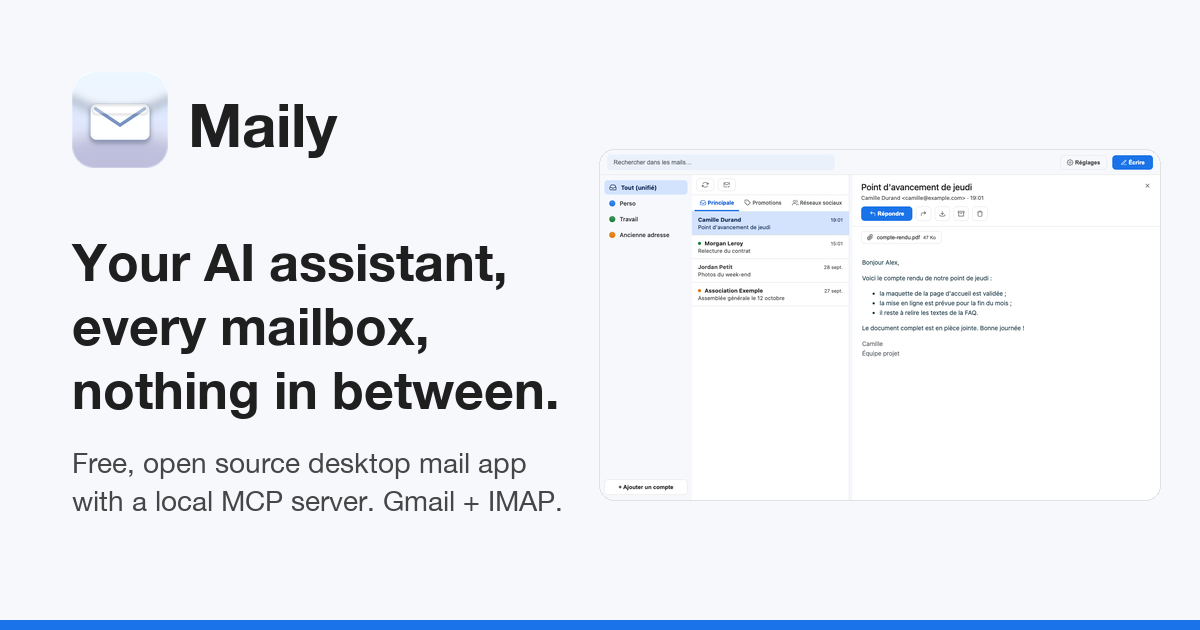
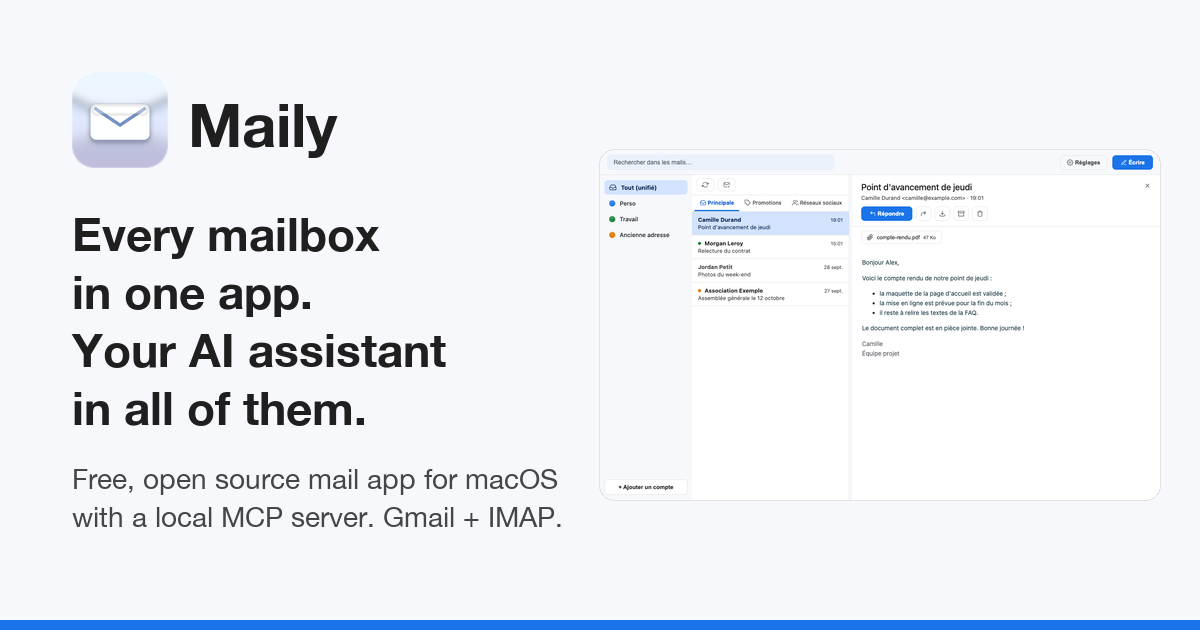
Match the Open Graph image to the new hero promise

Changed region(s): [[0.0617, 0.3317, 0.4625, 0.6937], [0.0617, 0.7238, 0.4625, 0.8444]]

diff --git a/scripts/site_assets.py b/scripts/site_assets.py
@@ -55,11 +55,11 @@ def og_image(source: Image.Image) -> None:
     logo = source.resize((96, 96), Image.LANCZOS)
     og.paste(logo, (72, 72), logo)
     draw.text((188, 88), "Maily", font=font(60, True), fill="#1f1f1f")
-    y = 230
-    for line in ["Your AI assistant,", "every mailbox,", "nothing in between."]:
-        draw.text((72, y), line, font=font(52, True), fill="#1f1f1f")
-        y += 64
-    draw.text((72, y + 24), "Free, open source desktop mail app", font=font(28), fill="#444746")
+    y = 206
+    for line in ["Every mailbox", "in one app.", "Your AI assistant", "in all of them."]:
+        draw.text((72, y), line, font=font(46, True), fill="#1f1f1f")
+        y += 58
+    draw.text((72, y + 24), "Free, open source mail app for macOS", font=font(28), fill="#444746")
     draw.text((72, y + 62), "with a local MCP server. Gmail + IMAP.", font=font(28), fill="#444746")
     shot = Image.open(ROOT / "docs" / "images" / "classic-light.png").convert("RGB")
     shot_w = 560
